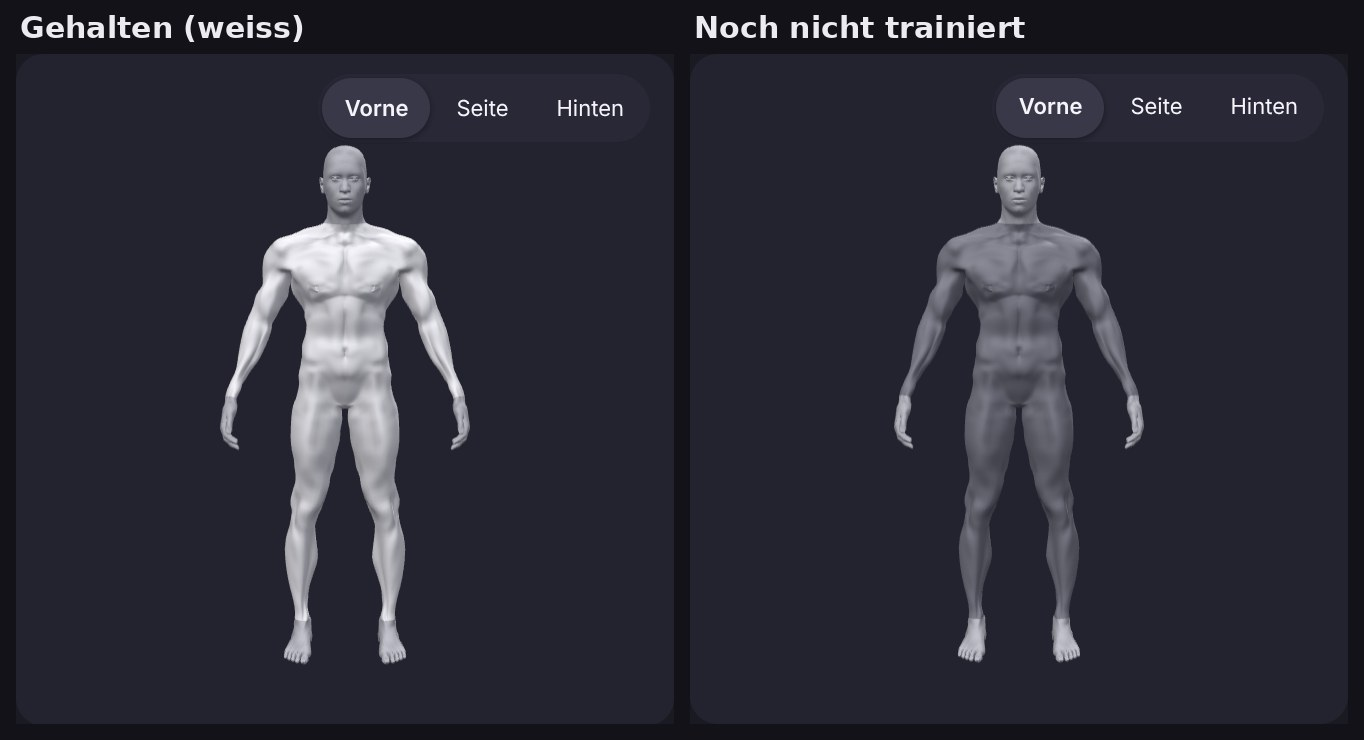
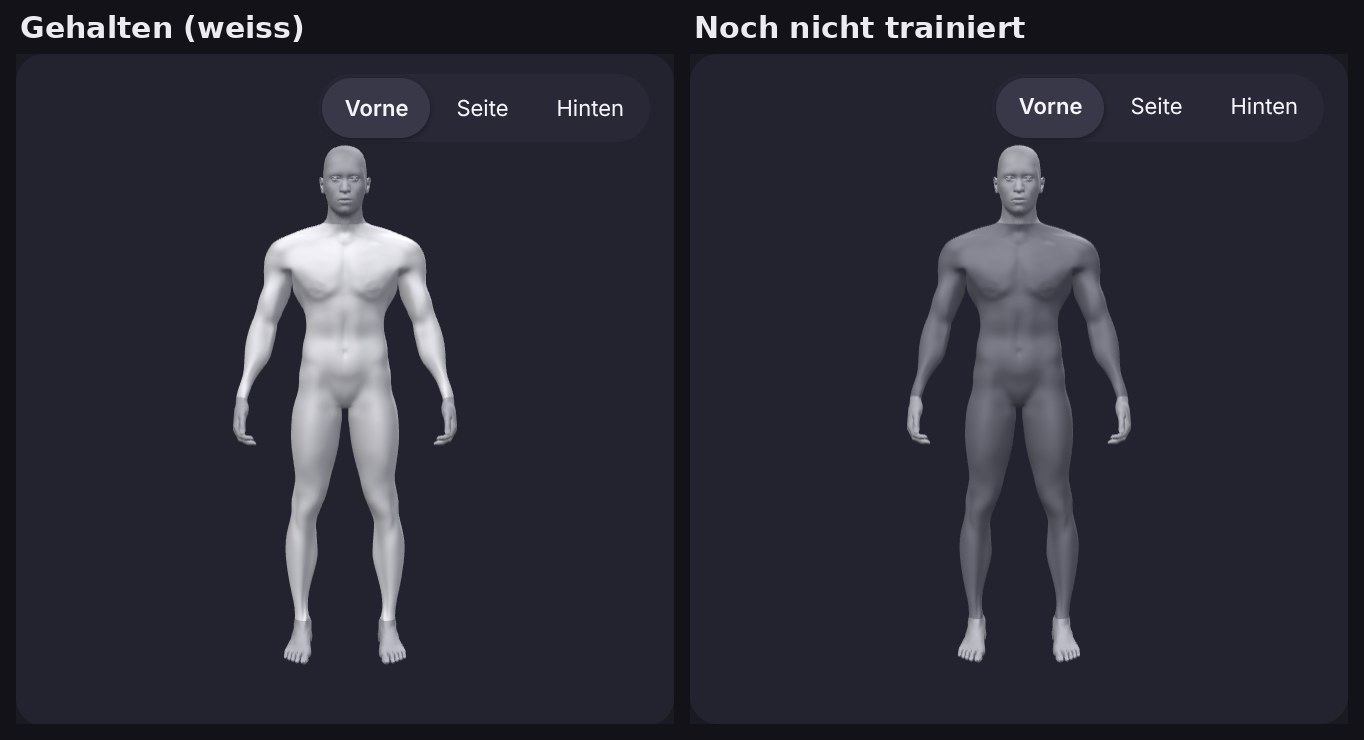
Block 7A: the pictures of STOP 7A show the body the app ships now
Claude-Session: https://claude.ai/code/session_01DdLuA7jm3Vmx87q2jbLMmk

diff --git a/HANDOVER.md b/HANDOVER.md
@@ -1294,9 +1294,10 @@ merged; **production of the second sheet's candidate is running — see
   `hnd7k02.github.io` itself is not reachable from the session.
 - **The pictures of STOP 7A** are in `docs/design/wp3/7a/`: four pairs
   before and after from the app (Muskelgruppen from the front, the stage
-  from the back, the Gym card, a close-up), the white body beside the
-  untrained one, the borders at neck, wrist and ankle, and the still in
-  the tone it has beside the white alternative the owner is asked about.
+  from the back, the Gym card, a close-up) and the white body beside the
+  untrained one — all five with the body shipped since the second sheet —
+  and, from the first version, the borders at neck, wrist and ankle. The
+  close-ups of the second sheet are in `docs/design/wp3/7a-gate-2/`.
 - **Baseline for this block** is the closing run of the colour rules on
   `67db6d2` (the commit before this block's first is `fec6d5c`, which adds
   only the record, the pictures and a moved block in one verify script): `tsc -b`
